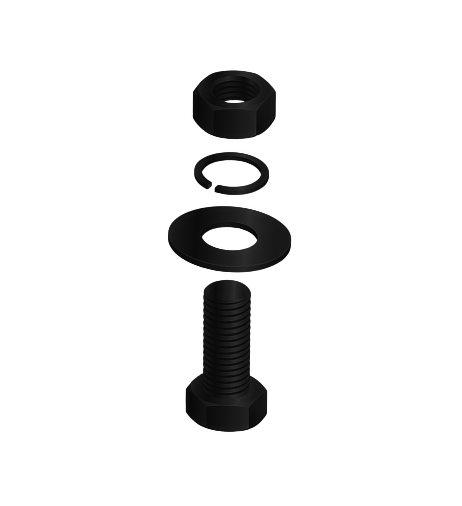
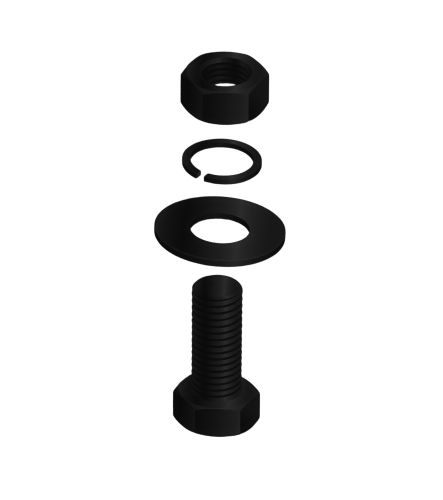
d

Changed region(s): [[0.3228, 0.09, 0.6456, 0.9]]

diff --git a/publishing/index.html b/publishing/index.html
@@ -37,34 +37,33 @@
 
         .product-card {
             width: 324px;
-            height: 453px; /* ФІКСОВАНА ВИСОТА БІЛОЇ ПЛАШКИ */
+            height: 453px; /* ФІКСОВАНА ВИСОТА ПЛАШКИ */
             background-color: #fff;
             position: relative;
             display: block;
-            overflow: hidden; /* Щоб нічого не вилазило */
+            overflow: hidden;
         }
 
-        /* Картинка */
         .img-container {
             width: 100%;
             height: 100%;
             display: flex;
-            align-items: flex-start; /* Картинка притиснута до верху */
+            align-items: flex-start;
             justify-content: center;
-            padding-top: 10px; /* Мінімальний відступ зверху */
+            padding-top: 10px;
         }
 
         .product-img {
             width: auto;
-            max-width: 85%; /* Трохи менше, щоб вліз текст знизу */
-            max-height: 65%; /* Обмеження висоти, щоб залишити місце для тексту */
+            max-width: 85%;
+            max-height: 62%; /* Трохи зменшив, щоб дати місце тексту */
             object-fit: contain;
             transition: transform 0.3s ease;
         }
         
         .product-card:hover .product-img { transform: scale(1.03); }
 
-        /* ТЕКСТ (Прибитий до низу плашки) */
+        /* ТЕКСТ (Прибитий до низу) */
         .info-block {
             position: absolute;
             bottom: 12px;
@@ -78,18 +77,22 @@
             line-height: 1.1;
             text-transform: uppercase;
             margin-bottom: 5px;
+            /* ВИПРАВЛЕННЯ ВИРІВНЮВАННЯ: */
+            min-height: 2.2em; /* Резервуємо місце під 2 рядки */
+            display: flex;
+            align-items: flex-start; /* Вирівнюємо текст по верху цього блоку */
         }
 
         .author {
             font-size: 14px;
             line-height: 1.2;
             margin-bottom: 15px;
-            min-height: 17px; /* Щоб рядки були рівні */
+            min-height: 17px;
         }
 
         .tags {
             display: flex;
-            gap: 3px; /* ВІДСТАНЬ МІЖ ТЕГАМИ 3px */
+            gap: 3px;
         }
 
         .tag {
@@ -106,7 +109,7 @@
         .status { background: #F1F0E4; }
 
 
-        /* --- ПРАВА ЧАСТИНА (НАВІГАЦІЯ + КНИГА) --- */
+        /* --- ПРАВА ЧАСТИНА --- */
         .right-col {
             flex: 1;
             position: relative;
@@ -140,14 +143,14 @@
         .btn-white { background: #fff; color: #000; }
         .btn-red { background: #FF0000; color: #000; }
 
-        /* АНІМОВАНА КНИГА */
+        /* --- АНІМОВАНА КНИГА (ВИПРАВЛЕНО) --- */
         .book-container {
             position: absolute;
             top: 56px; 
             right: 20px;
             width: 375px;
             height: 278px;
-            perspective: 1500px;
+            perspective: 2000px; /* Збільшив перспективу для реалізму */
         }
 
         .book {
@@ -157,7 +160,7 @@
             transform-style: preserve-3d;
         }
 
-        /* Стилі сторінок */
+        /* Базові стилі сторінки */
         .page {
             position: absolute;
             top: 0;
@@ -168,137 +171,107 @@
             flex-direction: column;
             align-items: center;
             justify-content: center;
-            border: 1px solid #ddd;
+            border: 1px solid #e0e0e0;
+            backface-visibility: hidden; /* Ховаємо задню частину при повороті */
         }
 
-        .page-content {
-            text-align: center;
-            padding: 20px;
-        }
+        .page-content { text-align: center; padding: 20px; }
         .page-logo { width: 60px; margin-bottom: 30px; }
-        .page-text {
-            font-size: 11px;
-            line-height: 1.4;
-            text-transform: uppercase;
-            margin-bottom: 40px;
-        }
+        .page-text { font-size: 11px; line-height: 1.4; text-transform: uppercase; margin-bottom: 40px; }
         .page-footer { font-size: 11px; }
 
-        /* Ліва (Нерухома) */
+        /* Ліва статична сторінка */
         .page-left {
             left: 0;
             border-radius: 4px 0 0 4px;
-            background: linear-gradient(to right, #ccc 0%, #fff 10%);
+            /* М'яка тінь корінця зліва */
+            background: linear-gradient(to right, #d0d0d0 0%, #f8f8f8 15%, #fff 100%);
             z-index: 1;
         }
 
-        /* Права (Нерухома підкладка) */
+        /* Права статична сторінка (підкладка) */
         .page-right {
             right: 0;
             border-radius: 0 4px 4px 0;
-            background: linear-gradient(to left, #ccc 0%, #fff 10%);
-            z-index: 1;
+            background: #fff;
+            z-index: 0;
         }
 
-        /* --- АНІМАЦІЯ ЧИСТО ВПЕРЕД --- */
-        .page-flip {
+        /* --- АНІМОВАНА СТОРІНКА --- */
+        .page-flip-wrapper {
             position: absolute;
             right: 0;
             width: 50%;
             height: 100%;
             transform-origin: left center;
+            transform-style: preserve-3d; /* Важливо для 3D обертання */
+            z-index: 10;
+            animation: flip-forward 3.5s infinite ease-in-out;
+        }
+
+        /* Лицьова сторона гортаючої сторінки */
+        .page-flip-front {
+            position: absolute;
+            top: 0; left: 0; width: 100%; height: 100%;
             background: #fff;
             border-radius: 0 4px 4px 0;
             border-left: 1px solid #ccc;
-            z-index: 10;
-            
-            /* Анімація: 3 секунди, нескінченно, лінійно */
-            animation: flip-forward 3s infinite linear;
+            backface-visibility: hidden;
+            z-index: 2;
+            /* Градієнт, що змінюється при повороті */
+            background: linear-gradient(to left, #fff 80%, #e0e0e0 100%);
         }
 
-        /* Тінь посередині */
-        .spine-shadow {
+        /* Зворотний бік гортаючої сторінки (те, що ми бачимо коли вона перегорнута) */
+        .page-flip-back {
             position: absolute;
-            left: 50%;
-            top: 0;
-            width: 40px;
-            height: 100%;
-            background: linear-gradient(to right, rgba(0,0,0,0.1), transparent, rgba(0,0,0,0.1));
-            transform: translateX(-50%);
-            z-index: 2;
-            pointer-events: none;
+            top: 0; left: 0; width: 100%; height: 100%;
+            background: #f0f0f0; /* Трохи темніша */
+            border-radius: 4px 0 0 4px;
+            border-right: 1px solid #ccc;
+            backface-visibility: hidden;
+            transform: rotateY(180deg); /* Розвернута задом наперед */
+            z-index: 1;
+            display: flex; align-items: center; justify-content: center;
+            background: linear-gradient(to right, #e0e0e0 0%, #f0f0f0 20%, #fff 100%);
+        }
+        
+        /* Тінь по центру під час гортання */
+        .center-shadow {
+             position: absolute;
+             left: 50%; top: 2%; width: 20px; height: 96%;
+             background: rgba(0,0,0,0.15);
+             filter: blur(10px);
+             opacity: 0;
+             z-index: 5;
+             transform: translateX(-50%);
+             animation: shadow-pulse 3.5s infinite ease-in-out;
         }
 
         @keyframes flip-forward {
-            0% {
-                transform: rotateY(0deg);
-                opacity: 1;
-                background: linear-gradient(to left, #ccc 0%, #fff 10%);
-            }
-            20% {
-                background: #fff; /* Біліє при підйомі */
-            }
-            50% {
-                transform: rotateY(-90deg); /* Вертикально */
-                opacity: 1;
-            }
-            90% {
-                opacity: 1;
-            }
-            100% {
-                transform: rotateY(-180deg); /* Повний переворот вліво */
-                opacity: 0; /* Зникає в самому кінці */
-            }
+            0% { transform: rotateY(0deg); }
+            15% { transform: rotateY(-20deg); } /* Легкий підйом на початку */
+            100% { transform: rotateY(-180deg); } /* Повний переверт наліво */
+        }
+        
+        @keyframes shadow-pulse {
+            0%, 100% { opacity: 0; }
+            40%, 60% { opacity: 1; } /* Тінь з'являється, коли сторінка вертикально */
         }
 
 
         /* --- МОБІЛЬНА АДАПТАЦІЯ --- */
         @media (max-width: 768px) {
-            .container {
-                flex-direction: column;
-                height: auto;
-            }
-            .left-col {
-                flex-direction: column;
-                width: 100%;
-                gap: 0;
-            }
-            .product-card {
-                width: 100%;
-                height: auto;
-                min-height: 453px; /* На мобільному дозволяємо рости */
-                border-bottom: 4px solid #E9E9E9;
-            }
-            .img-container {
-                height: 350px; /* Картинка менша на мобі */
-            }
-            .info-block {
-                position: relative; /* На мобільному текст йде потоком */
-                bottom: auto;
-                left: auto;
-                width: 100%;
-                padding: 12px;
-            }
-            .right-col {
-                height: auto;
-                min-height: 400px;
-                padding-bottom: 50px;
-            }
-            .nav-bar {
-                position: relative;
-                justify-content: center;
-                margin-top: 20px;
-                margin-bottom: 20px;
-            }
-            .book-container {
-                position: relative;
-                top: 0;
-                right: 0;
-                margin: 0 auto;
-                transform: scale(0.8);
-            }
+            .container { flex-direction: column; height: auto; }
+            .left-col { flex-direction: column; width: 100%; gap: 0; }
+            .product-card { width: 100%; height: auto; min-height: 453px; border-bottom: 4px solid #E9E9E9; }
+            .img-container { height: 350px; }
+            .info-block { position: relative; bottom: auto; left: auto; width: 100%; padding: 12px; }
+            .title { min-height: auto; } /* На мобі прибираємо фікс висоту */
+            .right-col { height: auto; min-height: 400px; padding-bottom: 50px; }
+            .nav-bar { position: relative; justify-content: center; margin-top: 20px; margin-bottom: 20px; }
+            .book-container { position: relative; top: 0; right: 0; margin: 0 auto; transform: scale(0.8); }
         }
-
     </style>
 </head>
 <body>
@@ -354,8 +327,8 @@
                             <div class="page-footer">Київ, 2026</div>
                         </div>
                     </div>
-
-                    <div class="spine-shadow"></div>
+                    
+                    <div class="center-shadow"></div>
 
                     <div class="page page-right">
                         <div class="page-content">
@@ -365,12 +338,15 @@
                         </div>
                     </div>
 
-                    <div class="page page-flip">
-                        <div class="page-content">
-                            <img src="./logo_publishing.png" class="page-logo" alt="Logo">
-                            <div class="page-text">Видавництво артпроєкту<br>“Іді нахуй”</div>
-                            <div class="page-footer">Київ, 2026</div>
+                    <div class="page-flip-wrapper">
+                        <div class="page page-flip-front">
+                            <div class="page-content">
+                                <img src="./logo_publishing.png" class="page-logo" alt="Logo">
+                                <div class="page-text">Видавництво артпроєкту<br>“Іді нахуй”</div>
+                                <div class="page-footer">Київ, 2026</div>
+                            </div>
                         </div>
+                        <div class="page-flip-back"></div>
                     </div>
 
                 </div>
